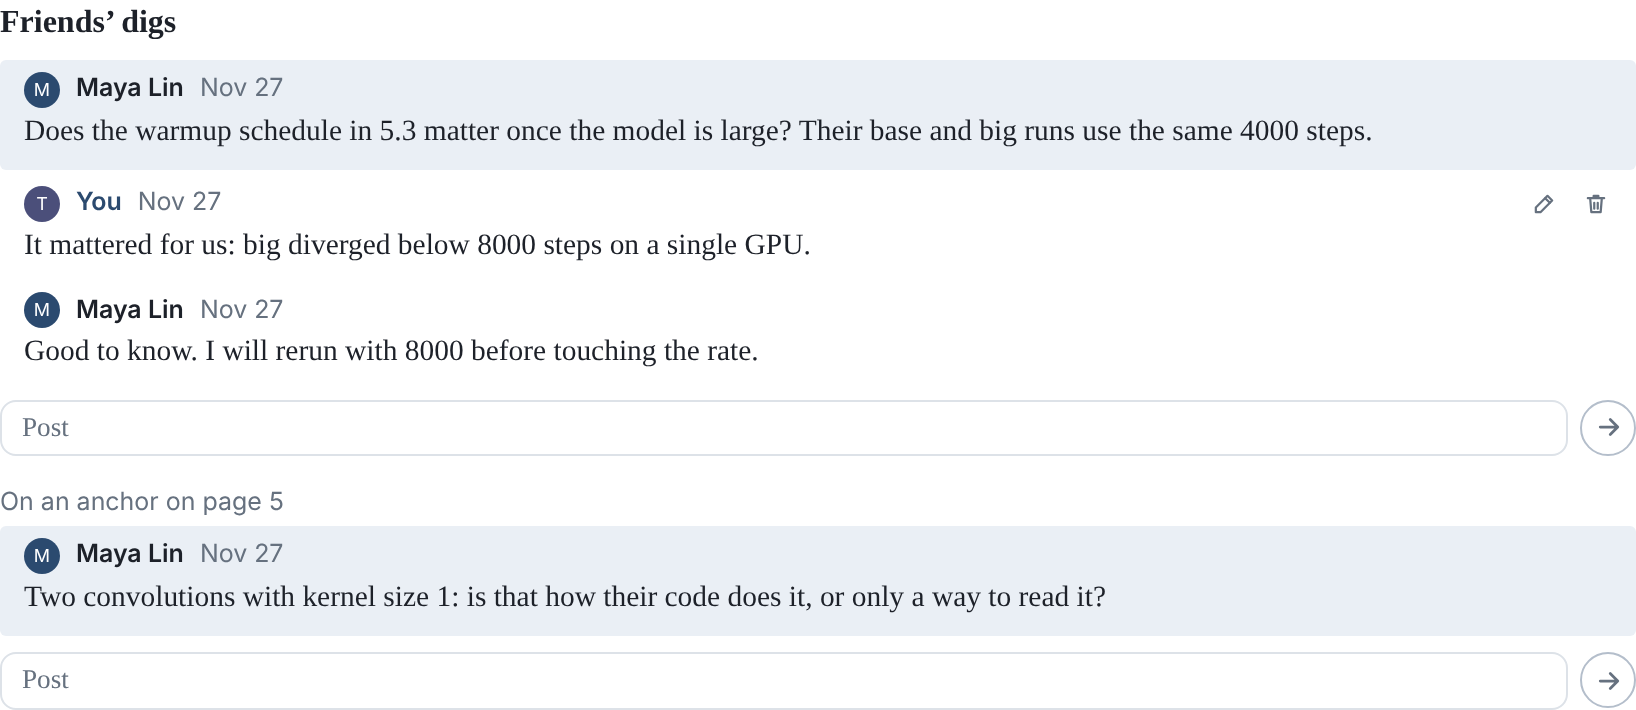
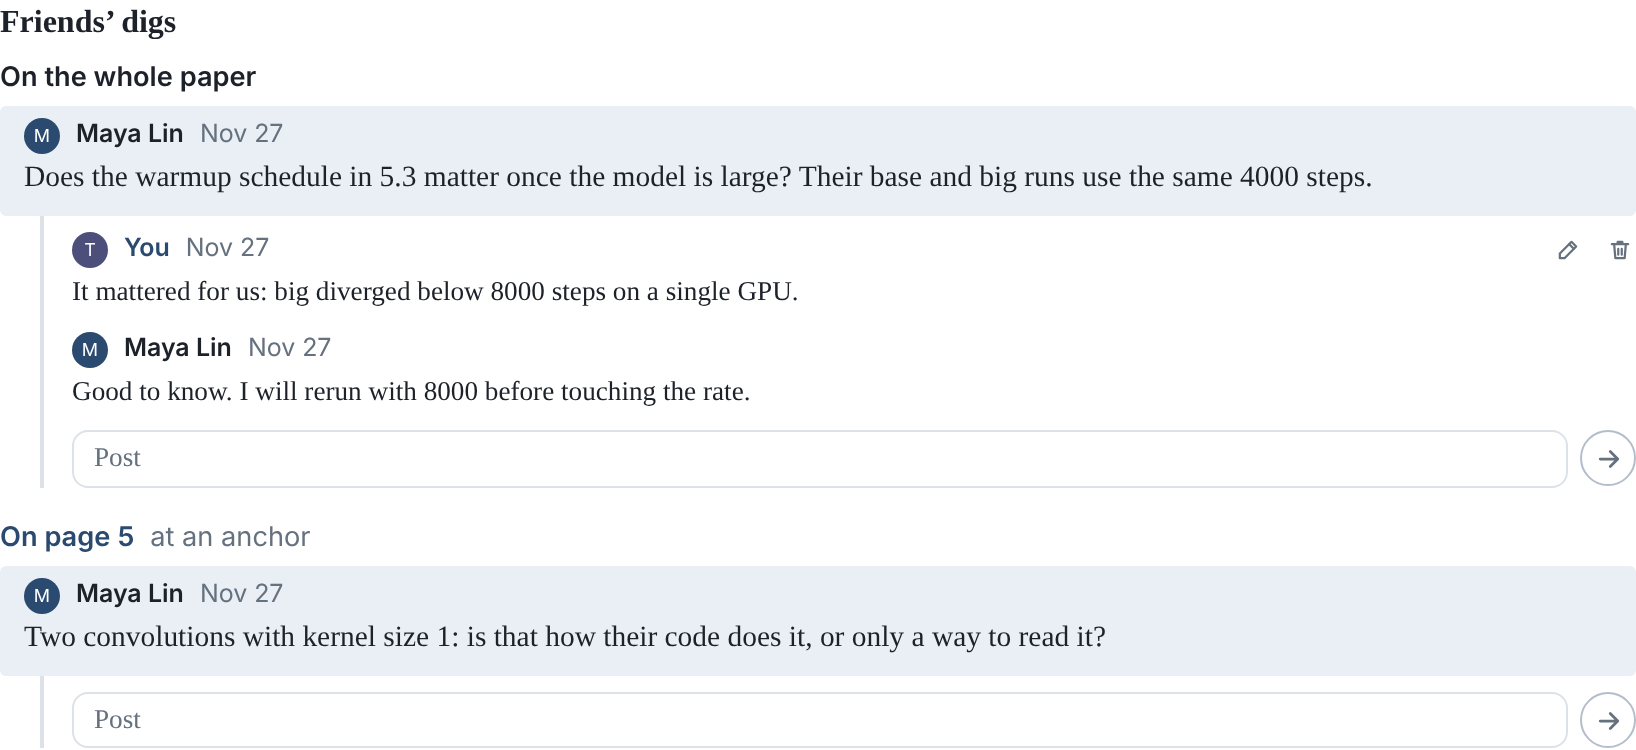
Friends' digs: each headed by what it is about, replies stepped in behind a rule
Over a friend's dig stands its focus: the whole paper, or its page,
which opens the paper there. What was posted under the dig and the box
that posts are stepped in behind one rule, so they read as under it.

Claude-Session: https://claude.ai/code/session_01PQZzMS6aJCZGme4NASAkAz

diff --git a/frontend/src/components/PaperJacket.jsx b/frontend/src/components/PaperJacket.jsx
@@ -34,6 +34,26 @@ import { friendDigsOn } from '../../../shared/api/friends.js';
 import { relationTo, useFriends } from '../friendsStore';
 import PinButton from './PinButton';
 
+// What a friend's dig is about, at its head: the whole paper, or a place
+// in it. A place opens the paper on its page, as far down as the mark
+// sits; the mark itself is its writer's and is not drawn for anyone else.
+function FriendDigFocus({ dig, paper }) {
+  const { kind, page, down, annotation_kind: mark } = dig.subject;
+  if (kind !== 'annotation' || !page) {
+    return <p className="friend-dig-focus"><span className="friend-dig-focus-on">On the whole paper</span></p>;
+  }
+  const what = mark === 'ink' ? 'painted text' : mark === 'clip' ? 'a clip' : 'an anchor';
+  const place = appPath(`/viewer/?pdf=${paper.sha256}&page=${page}${down == null ? '' : `&y=${Math.round(down * 1000) / 1000}`}`);
+  return (
+    <p className="friend-dig-focus">
+      <a className="friend-dig-focus-on" href={place} data-document title={`Open the paper on page ${page}`}>
+        On page {page}
+      </a>
+      <span className="friend-dig-focus-what">at {what}</span>
+    </p>
+  );
+}
+
 export default function PaperJacket({
   paperSha256, currentUser, onBack, backHref, onSelectPaper, onChanged, onRead,
   onDeleted, hideBack = false, backLabel = 'Back', onReportableError,
@@ -841,9 +861,10 @@ export default function PaperJacket({
 
           <div className="paper-actions">
             {/* Reading does not wait for the paper to be taken: the viewer
-                opens one that is not yet theirs as a lean link, and asks
-                for it only when they reach for an anchor or the ink. Until
-                it is theirs, adding it is the step that carries the weight. */}
+                opens one that is not yet theirs all the same, to read and
+                to dig, with the nook on offer in its bar (on the Mac, as a
+                lean link). Until it is theirs, adding it is the step that
+                carries the weight. */}
             {currentUser && viewerHref() && (
               <a
                 className={hasEntry ? 'button primary' : 'button'}
@@ -1346,11 +1367,9 @@ export default function PaperJacket({
             {friendDigs.map((dig) => (
               <li key={dig.uuid} className="friend-dig">
                 {/* The dig's own first line already says whose it is and when,
-                    so nothing stands over it but its place, and only when
-                    it is somewhere in the paper and not on the whole of it. */}
-                {dig.subject.kind === 'annotation' && (
-                  <p className="friend-dig-place">On {dig.subject.label.charAt(0).toLowerCase()}{dig.subject.label.slice(1)}</p>
-                )}
+                    so what stands over it is what it is about: the whole
+                    paper, or a place in it, which opens the paper there. */}
+                <FriendDigFocus dig={dig} paper={paper} />
                 <TalkCard
                   inline single conversation tucked only projectUuid={null} dig={dig.uuid}
                   subject={`dig:${dig.uuid}`} label={paper.title} currentUser={currentUser}

diff --git a/shared/applicationStyles.js b/shared/applicationStyles.js
@@ -6119,14 +6119,19 @@ ${talkStyles}
 .paper-friend-digs { margin-top: var(--space-5); }
 .paper-friend-digs > h4 { margin-bottom: var(--space-2); }
 .friend-digs { display: grid; grid-template-columns: minmax(0, 1fr); gap: var(--space-4); margin: 0; padding: 0; list-style: none; }
-.friend-dig-place { margin: 0 0 var(--space-1); color: var(--ink-faint); font: 400 var(--fs-xs) var(--font-ui); }
-/* A friend's dig is one block: the dig tinted and set in from its edge
-   as my own is, what was posted under it in line with its words, and the
-   box that posts at the same edge. */
+/* A friend's dig, top to bottom: what it is about, the dig itself tinted
+   and set in as my own is, then what was posted under it and the box that
+   posts, both stepped in behind one rule so they read as under the dig. */
+.friend-dig-focus { display: flex; align-items: baseline; gap: var(--space-2); margin: 0 0 var(--space-1); font: var(--fs-sm)/1.4 var(--font-ui); }
+.friend-dig-focus-on { color: var(--ink); font-weight: 600; text-decoration: none; }
+a.friend-dig-focus-on { color: var(--accent); }
+a.friend-dig-focus-on:hover { text-decoration: underline; text-underline-offset: 2px; }
+.friend-dig-focus-what { color: var(--ink-faint); }
 .friend-dig .talk-card.is-conversation .talk-post { padding: 6px 12px 8px; }
 .friend-dig .talk-card.is-conversation .talk-post-body { font-size: var(--fs-md); }
-.friend-dig .talk-card.is-conversation .talk-post + .talk-post { margin-top: var(--space-1); padding: 4px 12px 4px 12px; background: none; }
-.friend-dig .talk-card.is-conversation .talk-compose { margin-top: var(--space-2); padding: 0; }
+.friend-dig .talk-card.is-conversation .talk-post + .talk-post { margin: 0 0 0 20px; padding: 8px 0 2px 14px; border-left: 2px solid var(--line); border-radius: 0; background: none; }
+.friend-dig .talk-card.is-conversation .talk-post + .talk-post .talk-post-body { font-size: var(--fs-sm); }
+.friend-dig .talk-card.is-conversation .talk-compose { margin: 0 0 0 20px; padding: 8px 0 0 14px; border-left: 2px solid var(--line); }
 .friend-dig .talk-card.is-conversation .talk-compose :is(textarea, .md-field) { background: var(--card); }
 @media (max-width: 640px) {
   .room { gap: var(--space-4); }
